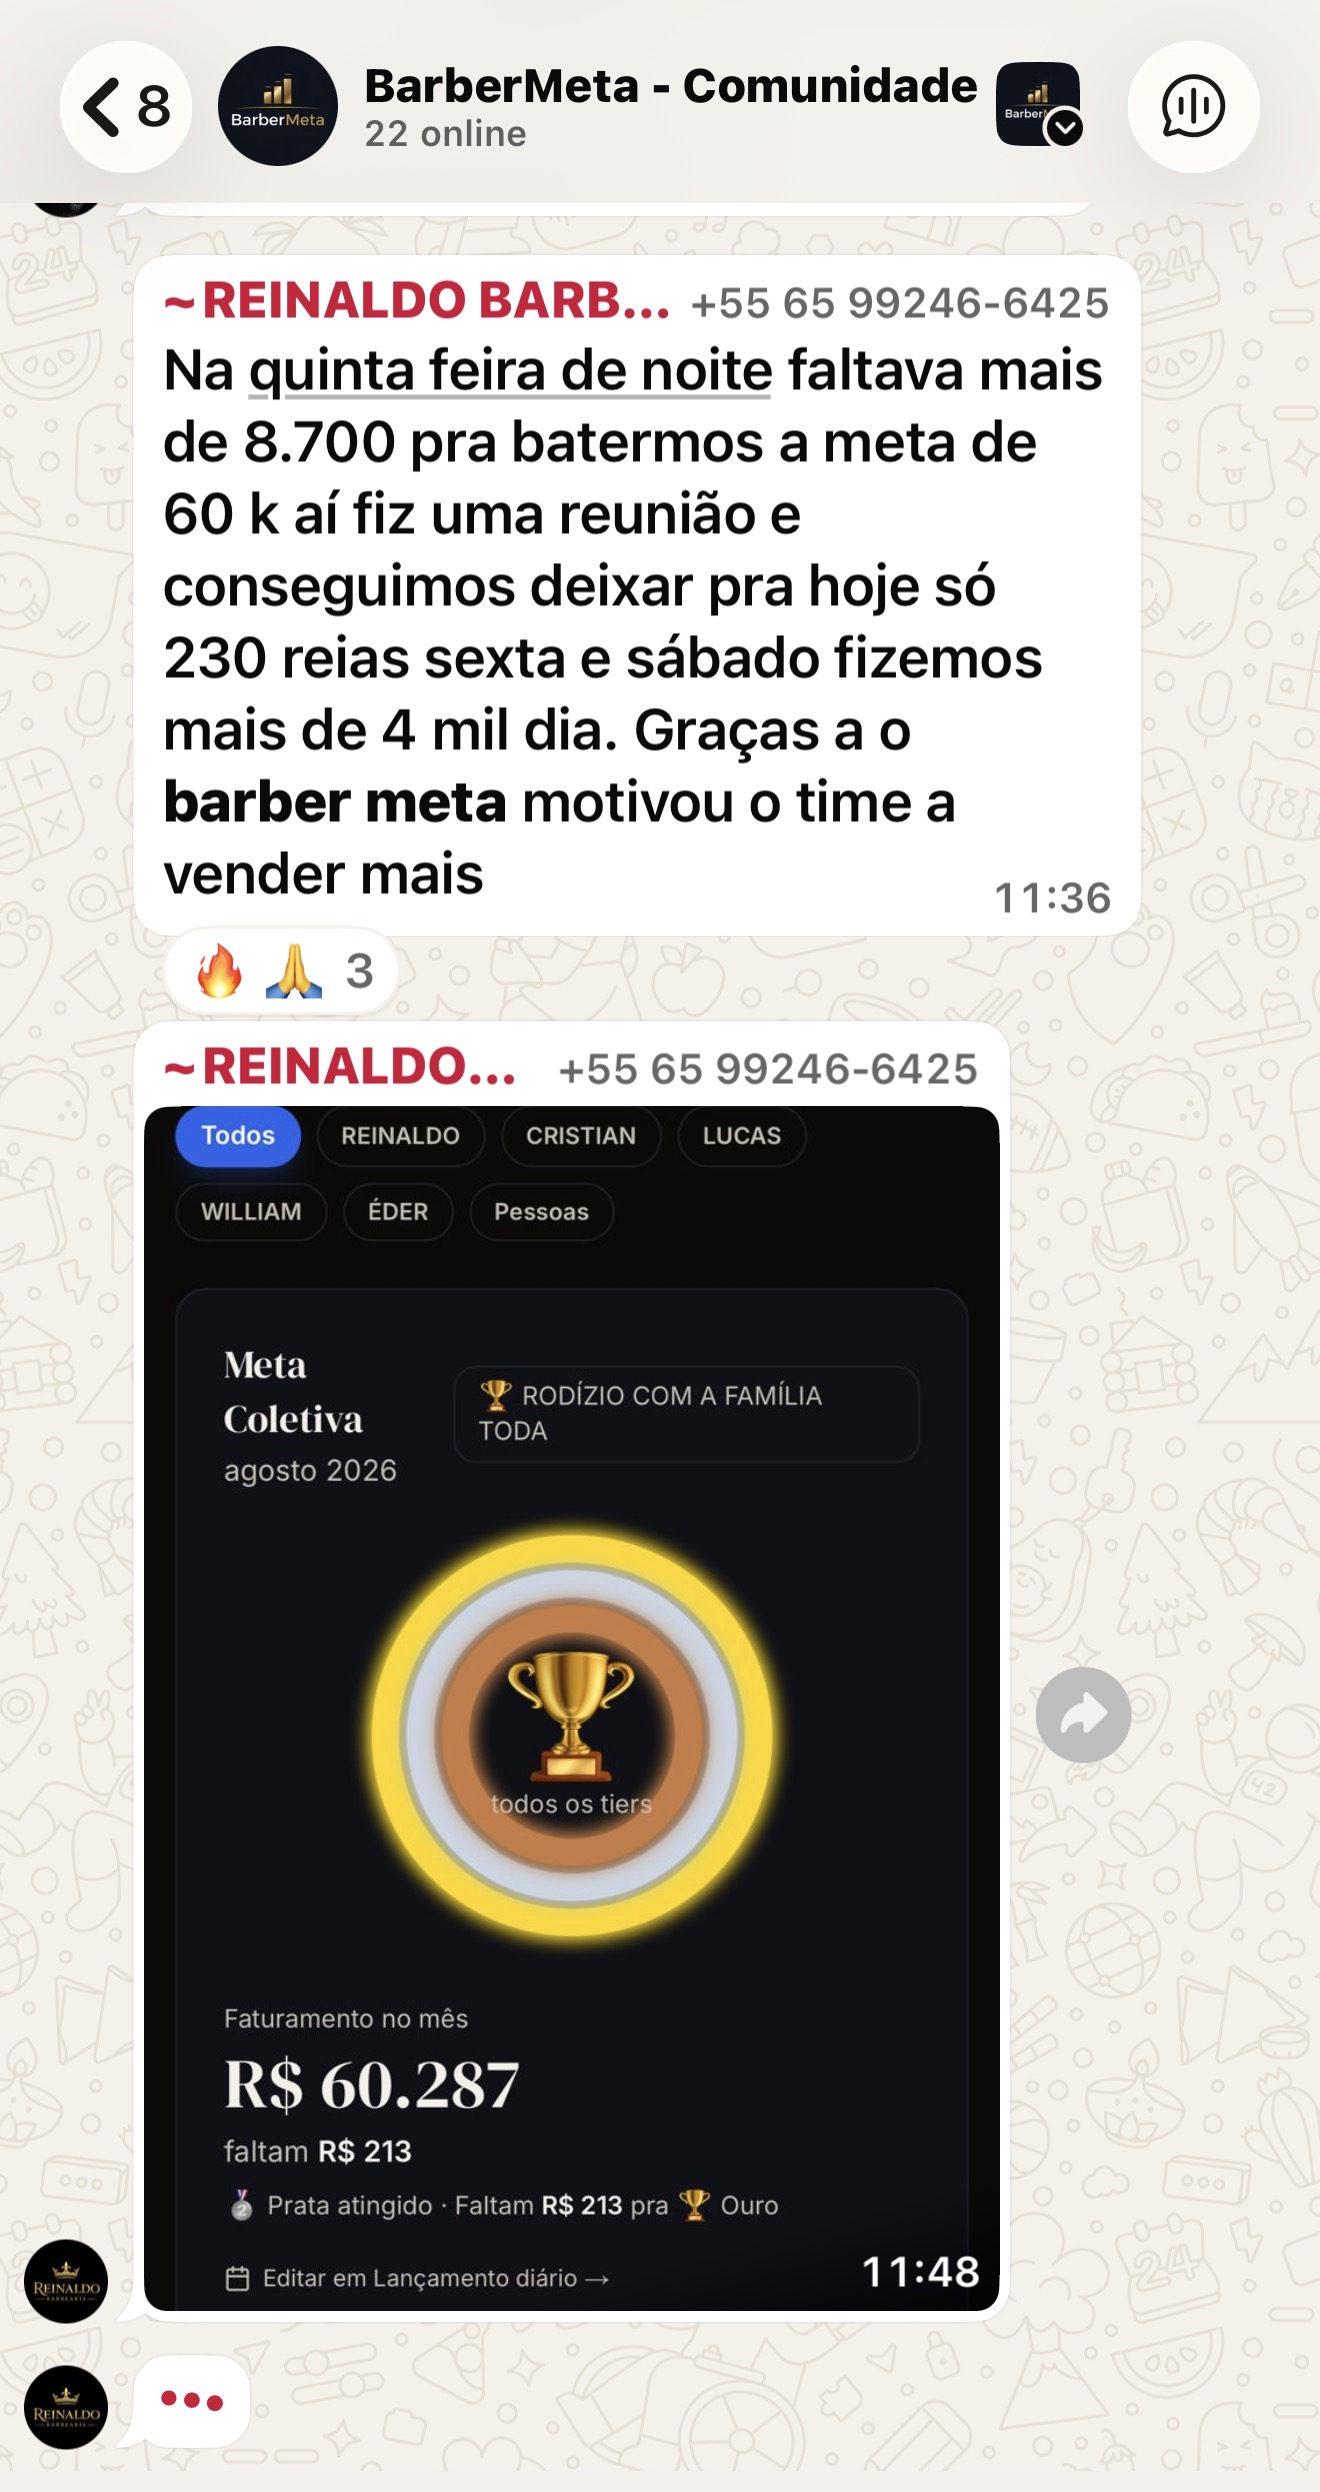
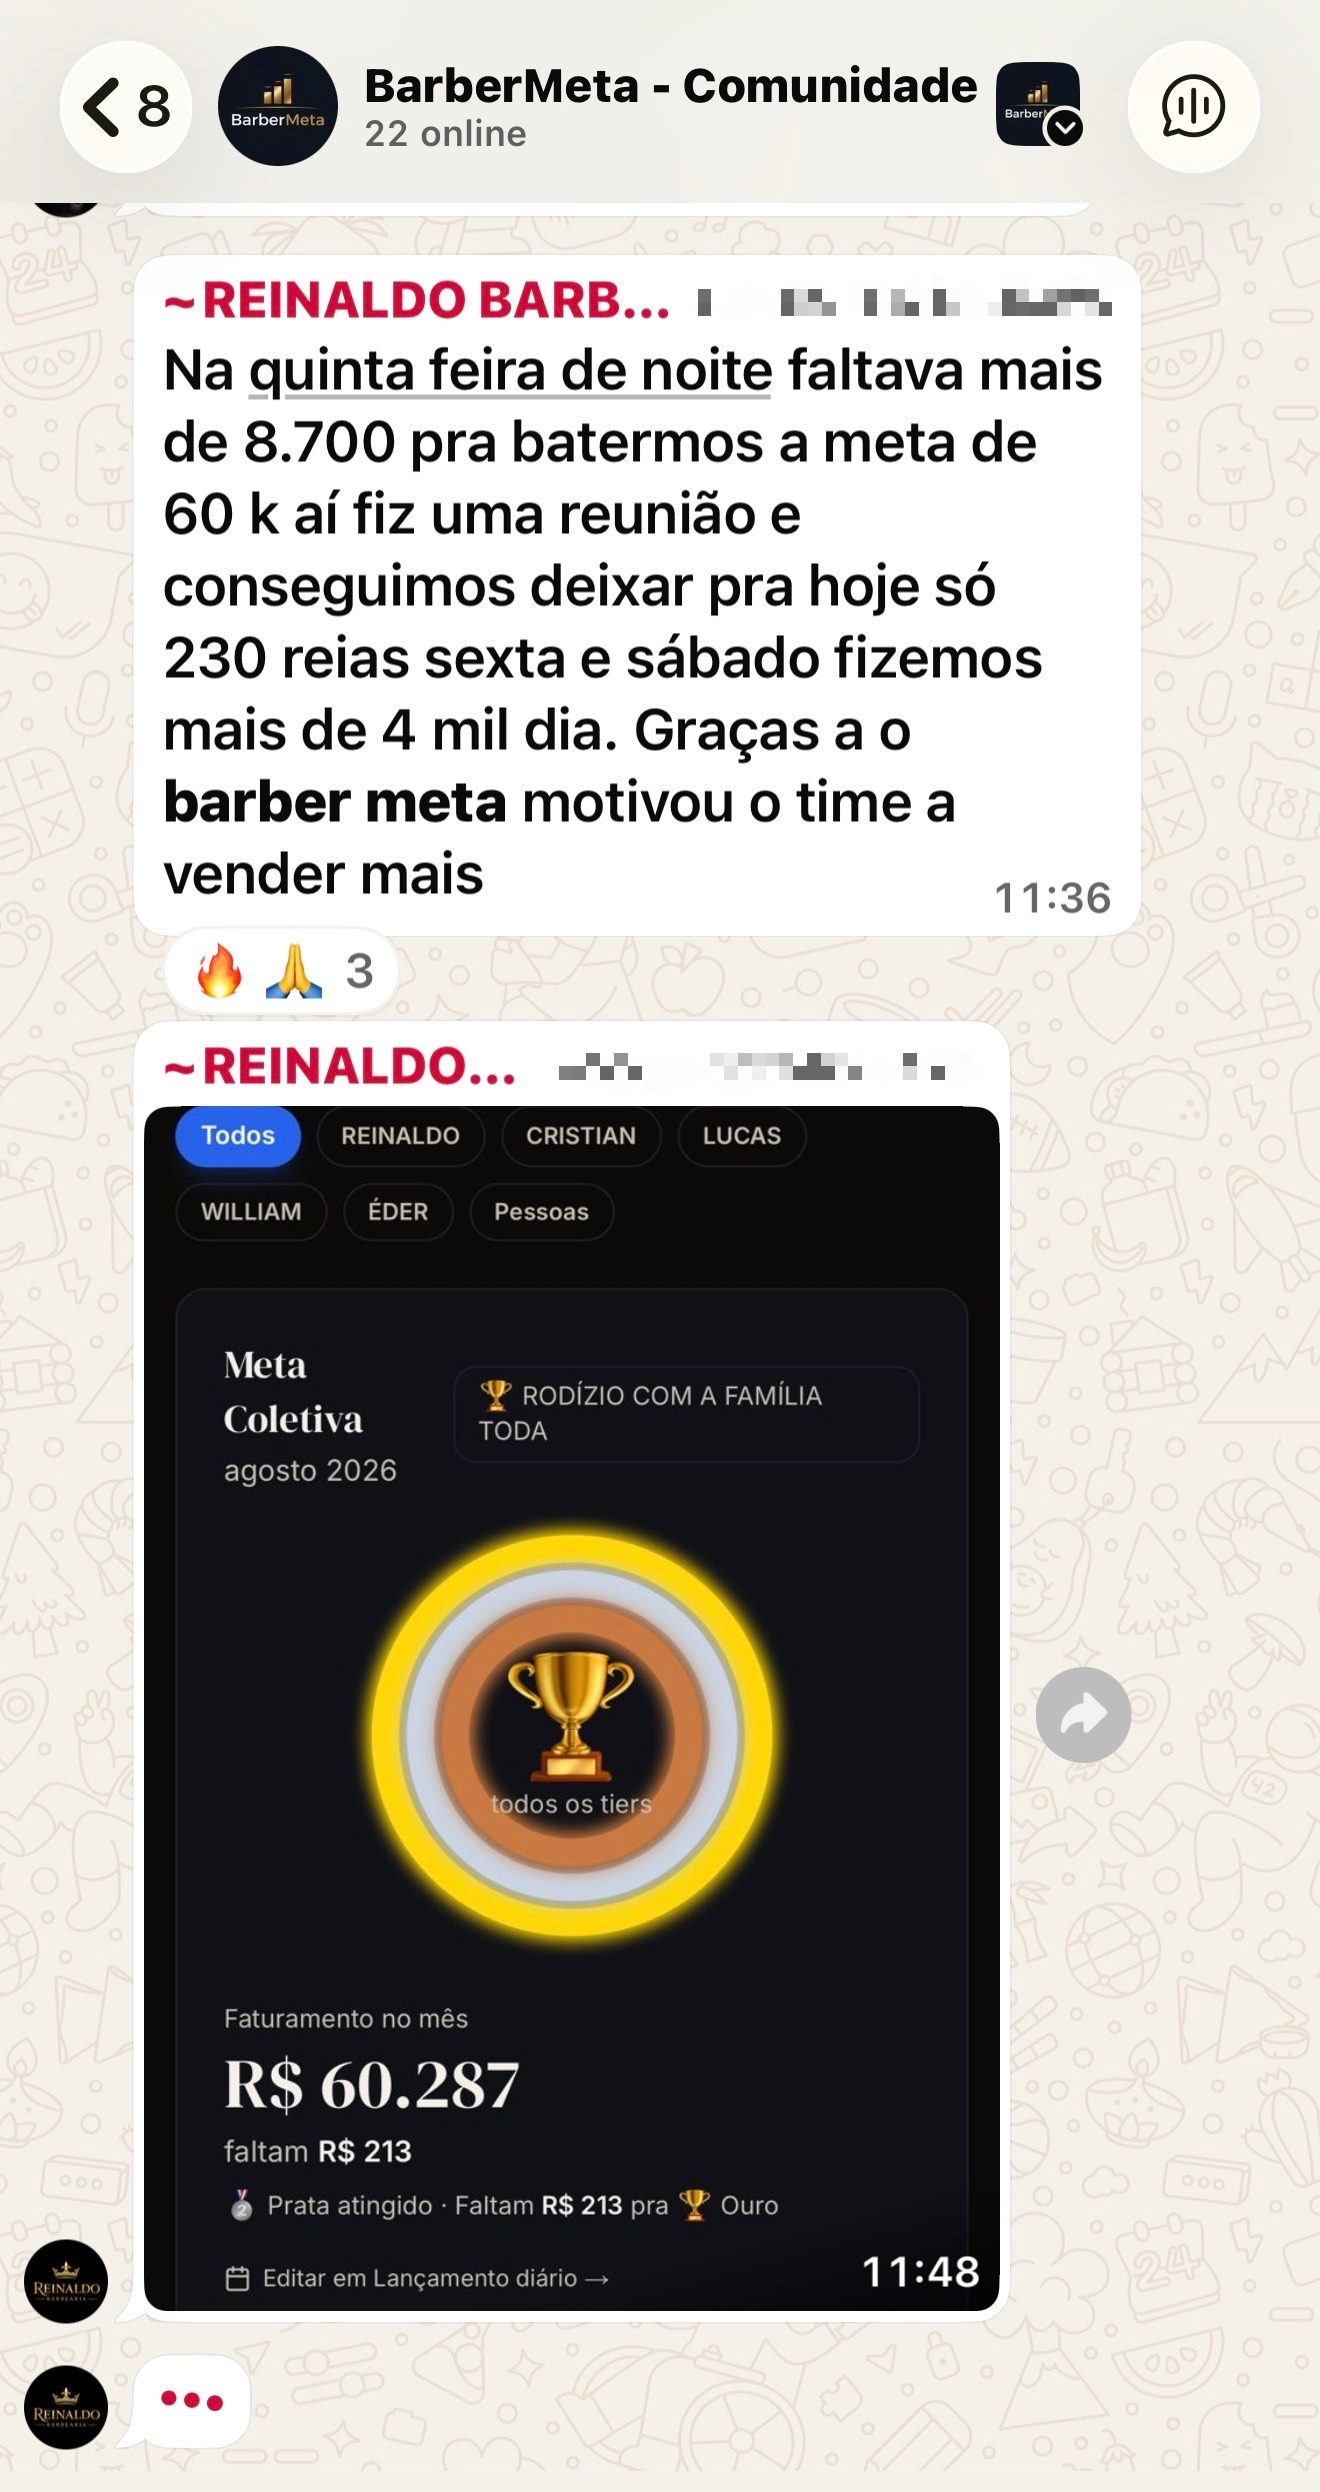
Cinco prints novos no carrossel de depoimentos, com os telefones borrados
Entram os prints do Well (dois), do Reinaldo (dois) e da Barbearia Almeida. Os
novos vêm primeiro; os cinco antigos continuam logo atrás.

OS TELEFONES FORAM BORRADOS ANTES DE SUBIR. Os prints de grupo do WhatsApp
mostravam o número completo de três pessoas - Well, Reinaldo e um terceiro que
aparece de passagem numa mensagem. Print de conversa com o celular de um
cliente vira spam e golpe na conta dele, e a força do depoimento está no texto
e no valor, não no telefone. Foram seis regiões pixelizadas ao todo.

A pixelização foi escolhida em vez de tarja preta de propósito: tarja num print
de conversa parece adulteração, borrão parece o que é - algo ocultado por
cuidado. O print do Instagram (Barbearia Almeida) não precisou de nada: ele
mostra só o @ do perfil, que já é público.

O RODAPÉ DO SEGUNDO PRINT DO WELL FOI CORTADO. Ali aparecia o começo da
mensagem seguinte, com o mesmo telefone surgindo de novo pela metade. Borrar um
texto já cortado pela borda ficaria remendado; o rodapé inteiro sai melhor, e
não tinha nada legível além da barra de digitação.

AS DIMENSÕES AGORA SÃO AS REAIS DE CADA ARQUIVO. Antes havia um 1320x2585 fixo
pra todo mundo. Com prints de alturas diferentes - de 1614 a 2868 - o navegador
reservava o espaço errado e a página dava um pulo quando cada imagem carregava.
Conferido: as quatro primeiras renderizam em 235x510, 235x464, 235x477 e
235x443, exatamente a proporção de cada arquivo.
[…]

diff --git a/components/landing/Depoimentos.tsx b/components/landing/Depoimentos.tsx
@@ -50,12 +50,30 @@ const RELATOS = [
   },
 ]
 
+/**
+ * PRINTS DAS CONVERSAS.
+ *
+ * As dimensões são as REAIS de cada arquivo, uma a uma. Antes havia um
+ * 1320x2585 fixo pra todo mundo: com prints de alturas diferentes, o navegador
+ * reservava o espaço errado e a página dava um pulo quando cada imagem
+ * carregava.
+ *
+ * Os telefones que apareciam nos prints de grupo do WhatsApp foram borrados
+ * antes de subir. Print de conversa com o número de um cliente vira spam e
+ * golpe na conta dele — e a força do depoimento está no texto, não no
+ * telefone. Os prints de Instagram mostram só o @, que já é público.
+ */
 const depoimentos = [
-  { src: '/prints/feedback-1.png', alt: 'Depoimento real sobre metas e participação da equipe no BarberMeta' },
-  { src: '/prints/feedback-2.png', alt: 'Depoimento real de cliente estudando o BarberMeta' },
-  { src: '/prints/feedback-3.png', alt: 'Depoimento real de cliente com a meta ouro atingida' },
-  { src: '/prints/feedback-4.png', alt: 'Depoimento real sobre o engajamento da equipe' },
-  { src: '/prints/feedback-5.png', alt: 'Depoimento real sobre a facilidade de uso do BarberMeta' },
+  { src: '/prints/feedback-6.png', w: 1320, h: 2868, alt: 'Dono relata na comunidade que o barbeiro que fazia R$ 250 de serviço extra passou a fazer R$ 998' },
+  { src: '/prints/feedback-7.png', w: 1320, h: 2610, alt: 'Continuação do relato: os três barbeiros citados eram os mais fracos em vendas, de um time de nove' },
+  { src: '/prints/feedback-9.png', w: 1320, h: 2682, alt: 'Dono conta que fez uma reunião faltando R$ 8.700 para a meta e o time fechou o mês' },
+  { src: '/prints/feedback-10.png', w: 1320, h: 2492, alt: 'Print da meta coletiva batida: R$ 60.287 no mês, com todos os tiers atingidos' },
+  { src: '/prints/feedback-8.png', w: 1320, h: 2731, alt: 'Cliente com dois dias de uso elogiando as funcionalidades e o contato direto com o dono' },
+  { src: '/prints/feedback-1.png', w: 1320, h: 2585, alt: 'Depoimento real sobre metas e participação da equipe no BarberMeta' },
+  { src: '/prints/feedback-2.png', w: 1320, h: 2572, alt: 'Depoimento real de cliente estudando o BarberMeta' },
+  { src: '/prints/feedback-3.png', w: 1320, h: 2585, alt: 'Depoimento real de cliente com a meta ouro atingida' },
+  { src: '/prints/feedback-4.png', w: 1320, h: 2570, alt: 'Depoimento real sobre o engajamento da equipe' },
+  { src: '/prints/feedback-5.png', w: 1302, h: 1614, alt: 'Depoimento real sobre a facilidade de uso do BarberMeta' },
 ]
 
 export default function Depoimentos() {
@@ -103,7 +121,7 @@ export default function Depoimentos() {
         <div className="flex snap-x snap-mandatory gap-4 overflow-x-auto px-4 pb-4 sm:gap-5 sm:px-6">
           {depoimentos.map((depoimento) => (
             <figure key={depoimento.src} className="relative w-[68vw] max-w-[235px] shrink-0 snap-center overflow-hidden rounded-2xl border border-[#E2E6EA] bg-[#F7F8FA] shadow-lg shadow-black/10">
-              <Image src={depoimento.src} width={1320} height={2585} alt={depoimento.alt} sizes="235px" className="block h-auto w-full" />
+              <Image src={depoimento.src} width={depoimento.w} height={depoimento.h} alt={depoimento.alt} sizes="235px" className="block h-auto w-full" />
             </figure>
           ))}
         </div>
